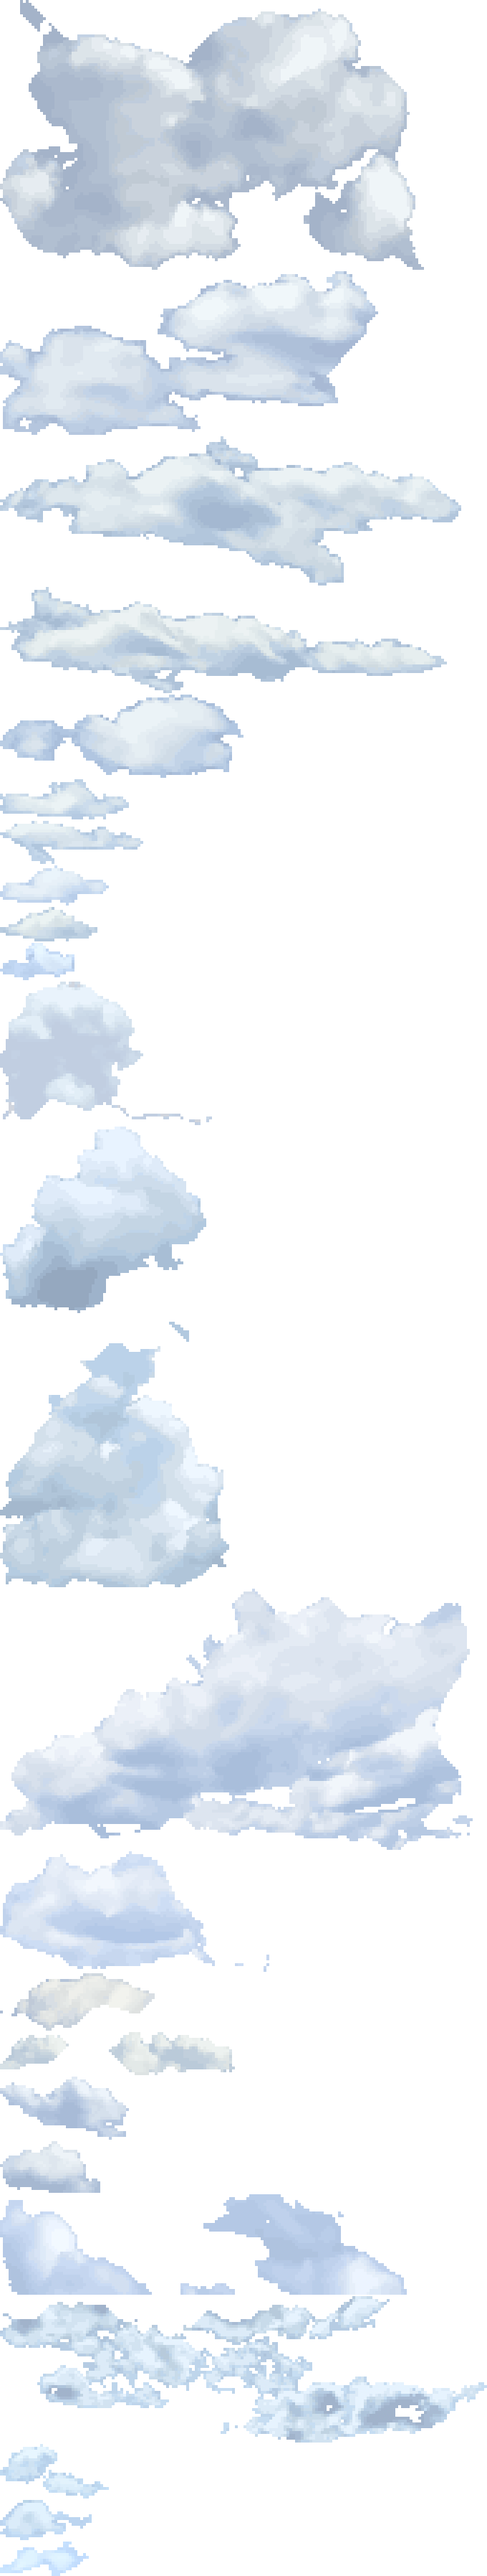
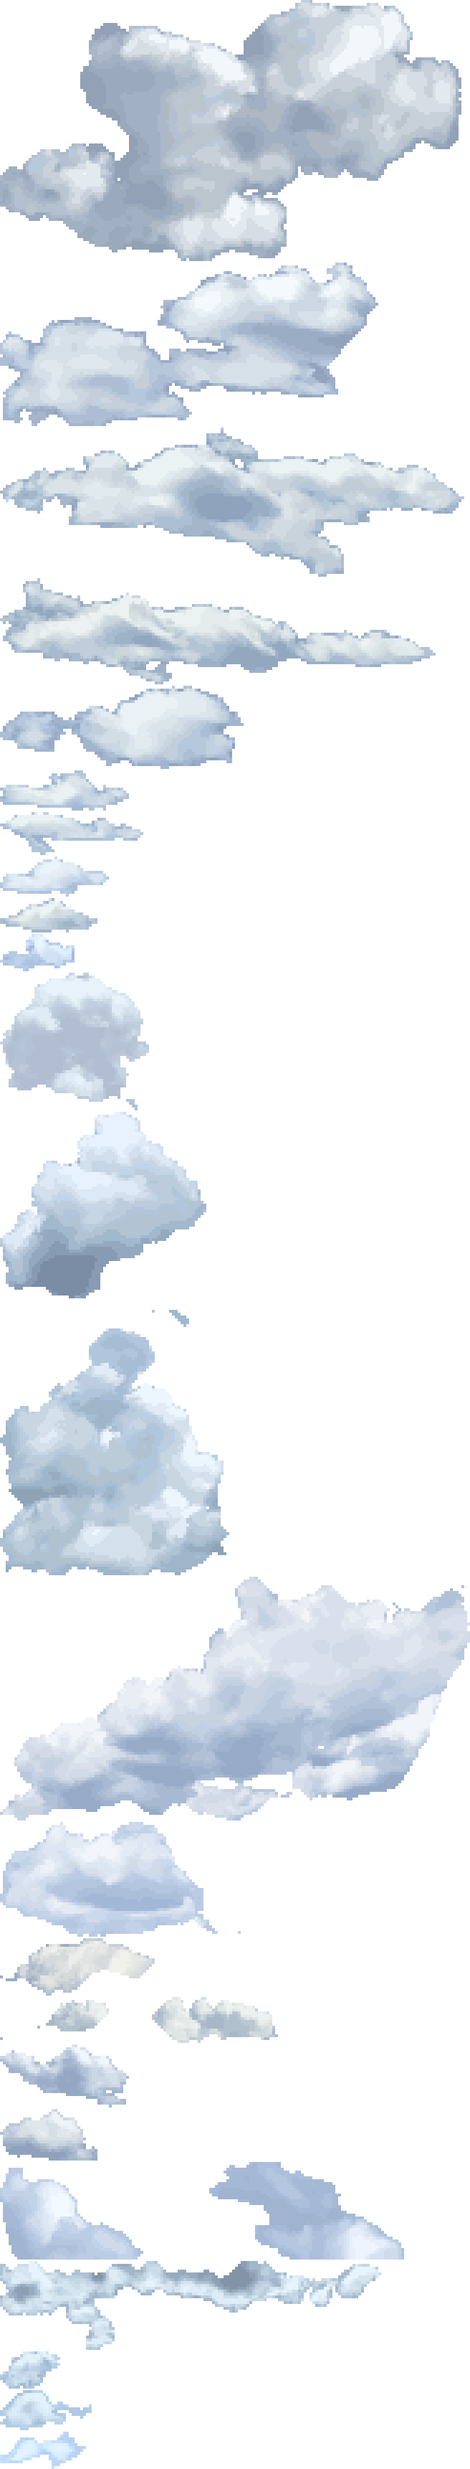
Whiter clouds, no fingers, and two debug skies: the cutter opens each cloud's mask (an octagonal erode-and-dilate scaled to the cloud, then the main piece only) so a thin wisp off a lobe no longer hangs on the bench as a finger (the user, 2026-10-17); the cloud preset's lift deepens the shade agains

Changed region(s): [[0.0, 0.0, 1.0, 1.0]]

diff --git a/index.html b/index.html
@@ -43,7 +43,7 @@
     <label>gliders <select id="dbg-gliders"><option value="live">live</option><option value="up">up</option><option value="none">none</option></select></label></div>
   <div class="row"><label>weather</label>
     <select id="dbg-weather">
-      <option value="live">live</option><option value="clear">clear</option><option value="partly">partly cloudy</option><option value="cirrus">cirrus</option><option value="altocumulus">altocumulus</option><option value="stratocumulus">stratocumulus</option>
+      <option value="live">live</option><option value="clear">clear</option><option value="partly">partly cloudy</option><option value="cumulus">cumulus</option><option value="cumulonimbus">cumulonimbus</option><option value="cirrus">cirrus</option><option value="altocumulus">altocumulus</option><option value="stratocumulus">stratocumulus</option>
       <option value="overcast">overcast</option><option value="rain">rain</option><option value="snow">snow</option>
       <option value="fog">fog</option><option value="inversion">inversion</option><option value="fogsea">deep fog</option><option value="dusting">overnight dusting</option><option value="mountainfog">mountain fog</option><option value="storm">thunderstorm</option><option value="blowing">blowing snow</option><option value="blizzard">blizzard</option><option value="greenup">green-up after rain</option>
     </select>

diff --git a/src/render/photoclouds.js b/src/render/photoclouds.js
@@ -136,8 +136,15 @@ function paint(data, img, tones, env) {
   // The cover's dimming of the valley's light is taken back out: a cumulus top is in full sun
   // above whatever shades the ground, and the photos were taken under partly cloudy skies
   // already. Only the sun's height, the sunset and the moon change the sprite.
+  // and by day the palette's own ambient (0.83 in a Missoula afternoon, set for the terrain)
+  // is taken out as well, since a sunlit cumulus top is white whenever the sun is up; the
+  // correction fades through dusk so the clouds still dim into the night
   const day = daylight(1);
-  const lift = 1 / (1 - 0.32 * (env ? (env.cond.shade ?? env.cond.cover) : 0));
+  let lift = 1 / (1 - 0.32 * (env ? (env.cond.shade ?? env.cond.cover) : 0));
+  if (env) {
+    const amb = env.pal.ambient, lum = Math.max(0.4, (0.299 * amb[0] + 0.587 * amb[1] + 0.114 * amb[2]));
+    lift *= 1 + clamp(env.sun.altitude / 10, 0, 1) * (1 / lum - 1);
+  }
   const ratio = day.slice(0, 5).map((b, i) => [tones[i][0] / b[0] * lift, tones[i][1] / b[1] * lift, tones[i][2] / b[2] * lift]);
   const last = ratio.length - 1;
   const src = data.data, out = img.data, { lo, hi } = sheet;

diff --git a/src/weather.js b/src/weather.js
@@ -113,6 +113,8 @@ export function conditionsFromCode(code) {
 export const WEATHER_PRESETS = {
   clear:    { code: 0,  cover: 0.05, coverLow: 0.05, coverMid: 0, coverHigh: 0, temp: 62, wind: 4,  snowDepth: 0 },
   partly:   { code: 2,  cover: 0.45, coverLow: 0.45, coverMid: 0.1, coverHigh: 0.2, temp: 58, wind: 7,  snowDepth: 0 },
+  cumulus:  { code: 2,  cover: 0.5,  coverLow: 0.5,  coverMid: 0, coverHigh: 0, temp: 74, wind: 6, snowDepth: 0 },   // a summer afternoon of fair cumulus and nothing else, for the photo clouds
+  cumulonimbus: { code: 2, cover: 0.6, coverLow: 0.55, coverMid: 0.1, coverHigh: 0.1, temp: 82, wind: 9, snowDepth: 0, cb: 1 },   // a cell building over the ranges, no storm yet
   cirrus:   { code: 1,  cover: 0.4,  coverLow: 0.05, coverMid: 0, coverHigh: 0.5, temp: 60, wind: 9, snowDepth: 0 },
   altocumulus: { code: 2, cover: 0.6, coverLow: 0.15, coverMid: 0.6, coverHigh: 0.1, temp: 56, wind: 6, snowDepth: 0 },
   stratocumulus: { code: 3, cover: 0.9, coverLow: 0.85, coverMid: 0.3, coverHigh: 0, temp: 50, wind: 8, snowDepth: 0 },

diff --git a/src/main.js b/src/main.js
@@ -126,7 +126,7 @@ function computeEnv() {
     nimbo: cond.storm ? 0.45 : wet ? Math.max(0.7, low) : 0,   // a storm's sheet is broken so the cell shows against sky
     stratus: !wet && (cond.fog || preset?.stratus) ? Math.max(0.8, low) : 0,
     strato: !wet && !cond.fog && !preset?.stratus ? Math.max(0, Math.min(1, (low - 0.55) / 0.3)) : 0,
-    cumulus: 0, cb: cond.storm ? 1 : 0,
+    cumulus: 0, cb: cond.storm || preset?.cb ? 1 : 0,
   };
   sky.cumulus = wet || cond.fog || preset?.stratus ? 0 : low * (1 - sky.strato * 0.75);
   const sun = sunPosition(now, LAT, LON);

diff --git a/tools/cut_cloud.py b/tools/cut_cloud.py
@@ -10,6 +10,8 @@ translucent edge averages down into the cloud rather than snapping to a hard lin
   --sky S     blueness at and above which it is wholly sky (default: measured as the 90th
               percentile inside the box, less a margin; a thin veil over the sky sits between)
   --pad N     pixels of margin kept around the cloud's bounding box (default 8)
+  --open N    wisps and fingers thinner than 2N photo pixels are dropped (default 48, less on a
+              small cloud; 0 keeps them)
   --list      no cut: print the separate clouds the key finds in the box, largest first, with
               the box fractions to pass back in, for filling the config's clouds list
   --all       keep every cloud in the box (a cluster, or one cloud the key sees as two pieces)
@@ -116,6 +118,30 @@ def seam_cut(alpha, ln, axis, pos, d, B):
     return a if axis == 1 else a.T
 
 
+def opened(mask, radius):
+    """Morphological opening (erode then dilate by radius, on a coarse grid): drops fingers and
+    wisps thinner than twice the radius, keeps every lobe. The element alternates the 4- and
+    8-neighborhoods so it is an octagon, near a disc; a plain 4-neighborhood element is a
+    diamond, and a wisp eroded to a point grew back as a diamond on the bench. Done on the
+    photo's own mask."""
+    s = 4; r = max(1, radius // s)
+    H, W = mask.shape
+    small = mask[:H // s * s, :W // s * s].reshape(H // s, s, W // s, s).mean((1, 3)) > 0.5
+    def grow(m, keep):
+        out = m.copy()
+        for i in range(r):
+            n = out.copy()
+            n[1:] = keep(n[1:], out[:-1]); n[:-1] = keep(n[:-1], out[1:]); n[:, 1:] = keep(n[:, 1:], out[:, :-1]); n[:, :-1] = keep(n[:, :-1], out[:, 1:])
+            if i % 2:   # the diagonals every other step
+                n[1:, 1:] = keep(n[1:, 1:], out[:-1, :-1]); n[:-1, :-1] = keep(n[:-1, :-1], out[1:, 1:])
+                n[1:, :-1] = keep(n[1:, :-1], out[:-1, 1:]); n[:-1, 1:] = keep(n[:-1, 1:], out[1:, :-1])
+            out = n
+        return out
+    o = grow(grow(small, np.logical_and), np.logical_or)
+    full = np.zeros_like(mask); full[:o.shape[0] * s, :o.shape[1] * s] = o.repeat(s, 0).repeat(s, 1)
+    return mask & full
+
+
 def main():
     ap = argparse.ArgumentParser(description=__doc__.split('\n')[0])
     ap.add_argument('photo'); ap.add_argument('out')
@@ -123,6 +149,7 @@ def main():
     ap.add_argument('--cloud', type=float, default=0.28)
     ap.add_argument('--sky', type=float)
     ap.add_argument('--pad', type=int, default=8)
+    ap.add_argument('--open', type=int, default=48, help='drop wisps and fingers thinner than twice this many photo pixels (0 keeps them)')
     ap.add_argument('--clip', action='store_true', help='the box also cuts: for a cloud joined to its neighbors, which otherwise come with it')
     ap.add_argument('--list', action='store_true', help='list the separate clouds in the box with their boxes, and cut nothing')
     ap.add_argument('--all', action='store_true', help='keep every cloud in the box, not just the one with the most core in it: for a cluster, or a cloud in two pieces')
@@ -148,6 +175,10 @@ def main():
     if a.clip: alpha[~inbox] = 0
     core = ((alpha >= 0.6) & inbox) if a.all else label_largest((alpha >= 0.6), prefer=inbox)
     if core is None or not core.any(): sys.exit('no cloud found in the box')
+    if a.open > 0:   # a thin wisp off a lobe read as a finger on the bench (the user, 2026-10-17); the radius scales with the cloud, so a small puff is not eroded away
+        cy, cx = np.nonzero(core)
+        core = opened(core, int(min(a.open, max(6, min(cx.max() - cx.min(), cy.max() - cy.min()) * 0.05))))
+        if not a.all: core = label_largest(core, prefer=inbox)   # the opening can leave crumbs where a wisp was
     # the soft edge belongs to the chosen cloud only where it touches that cloud's core
     try:
         from scipy import ndimage

diff --git a/tools/pixelate.py b/tools/pixelate.py
@@ -117,6 +117,7 @@ def lift(lab, k):
     L = lab[..., 0].clip(0, 1) ** (1 - 0.3 * k)
     hi = np.percentile(L, 97)
     if hi > 0: L = L * min(0.97 / hi, 1.25)
+    L = 0.97 + (L - 0.97) * (1 + 0.35 * k)                      # the shade deepened against the white, for depth
     out = lab.copy(); out[..., 0] = L.clip(0, 1)
     return out
 
